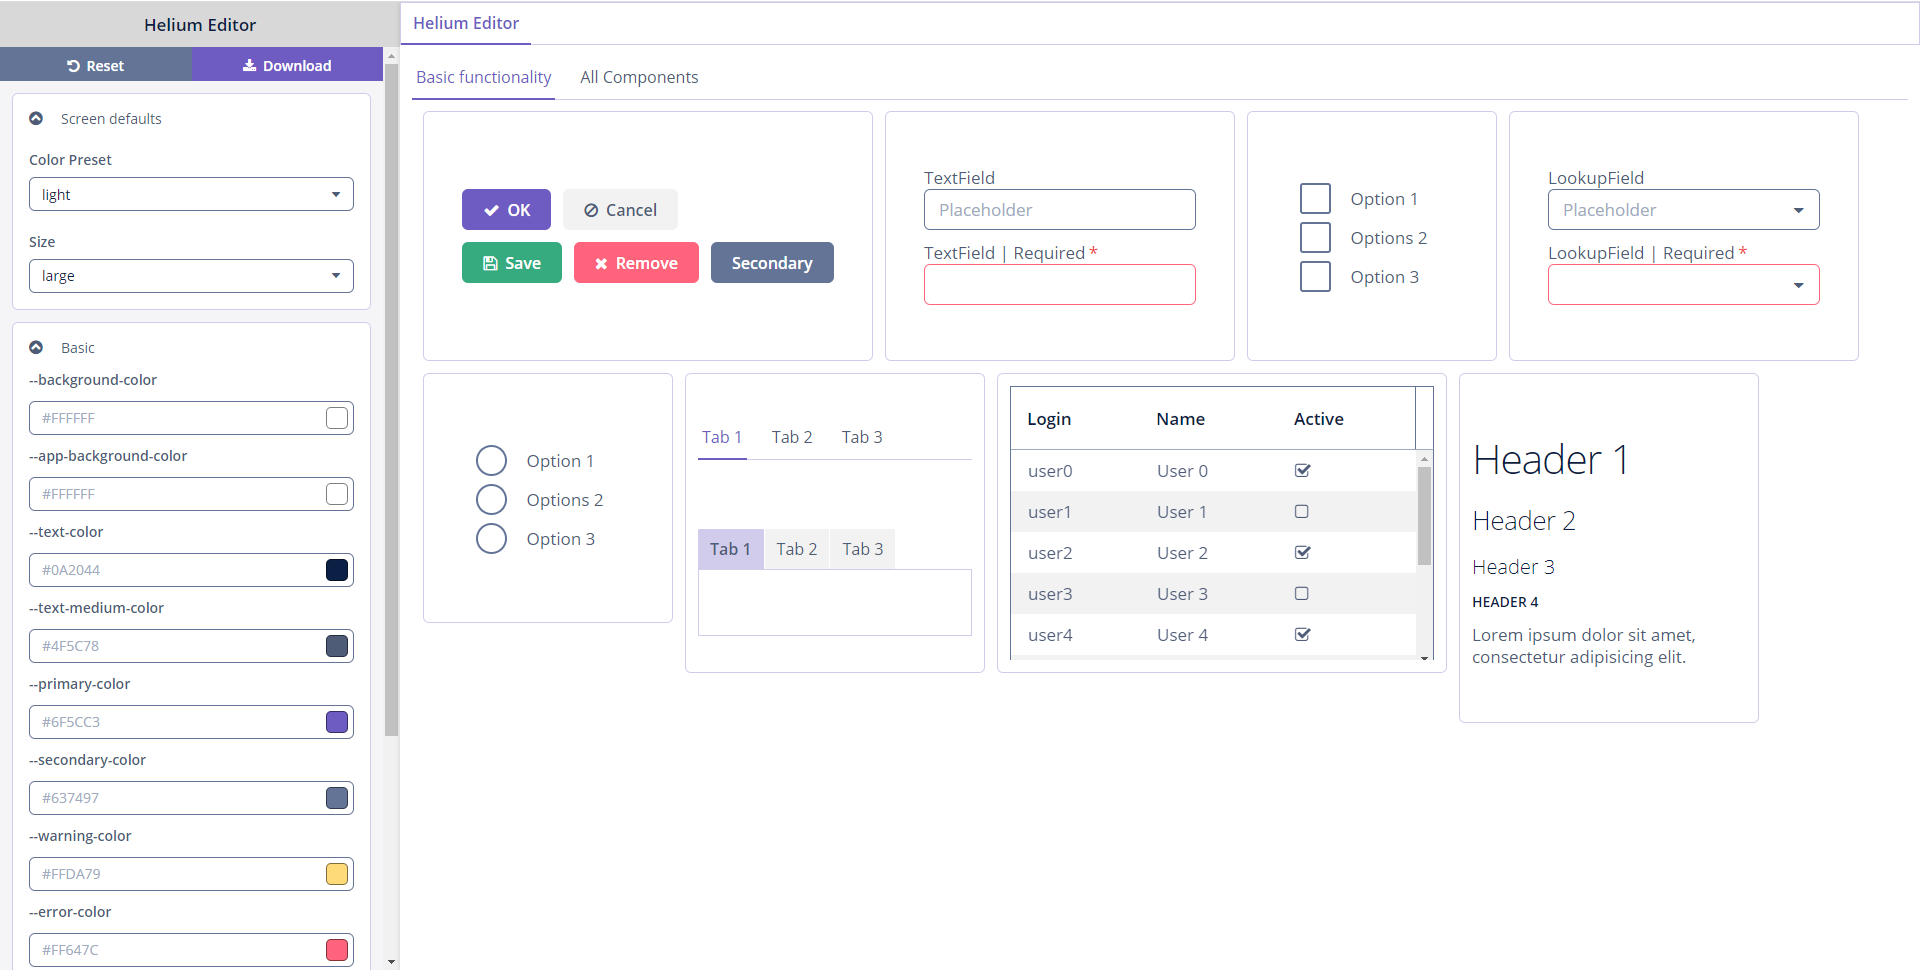
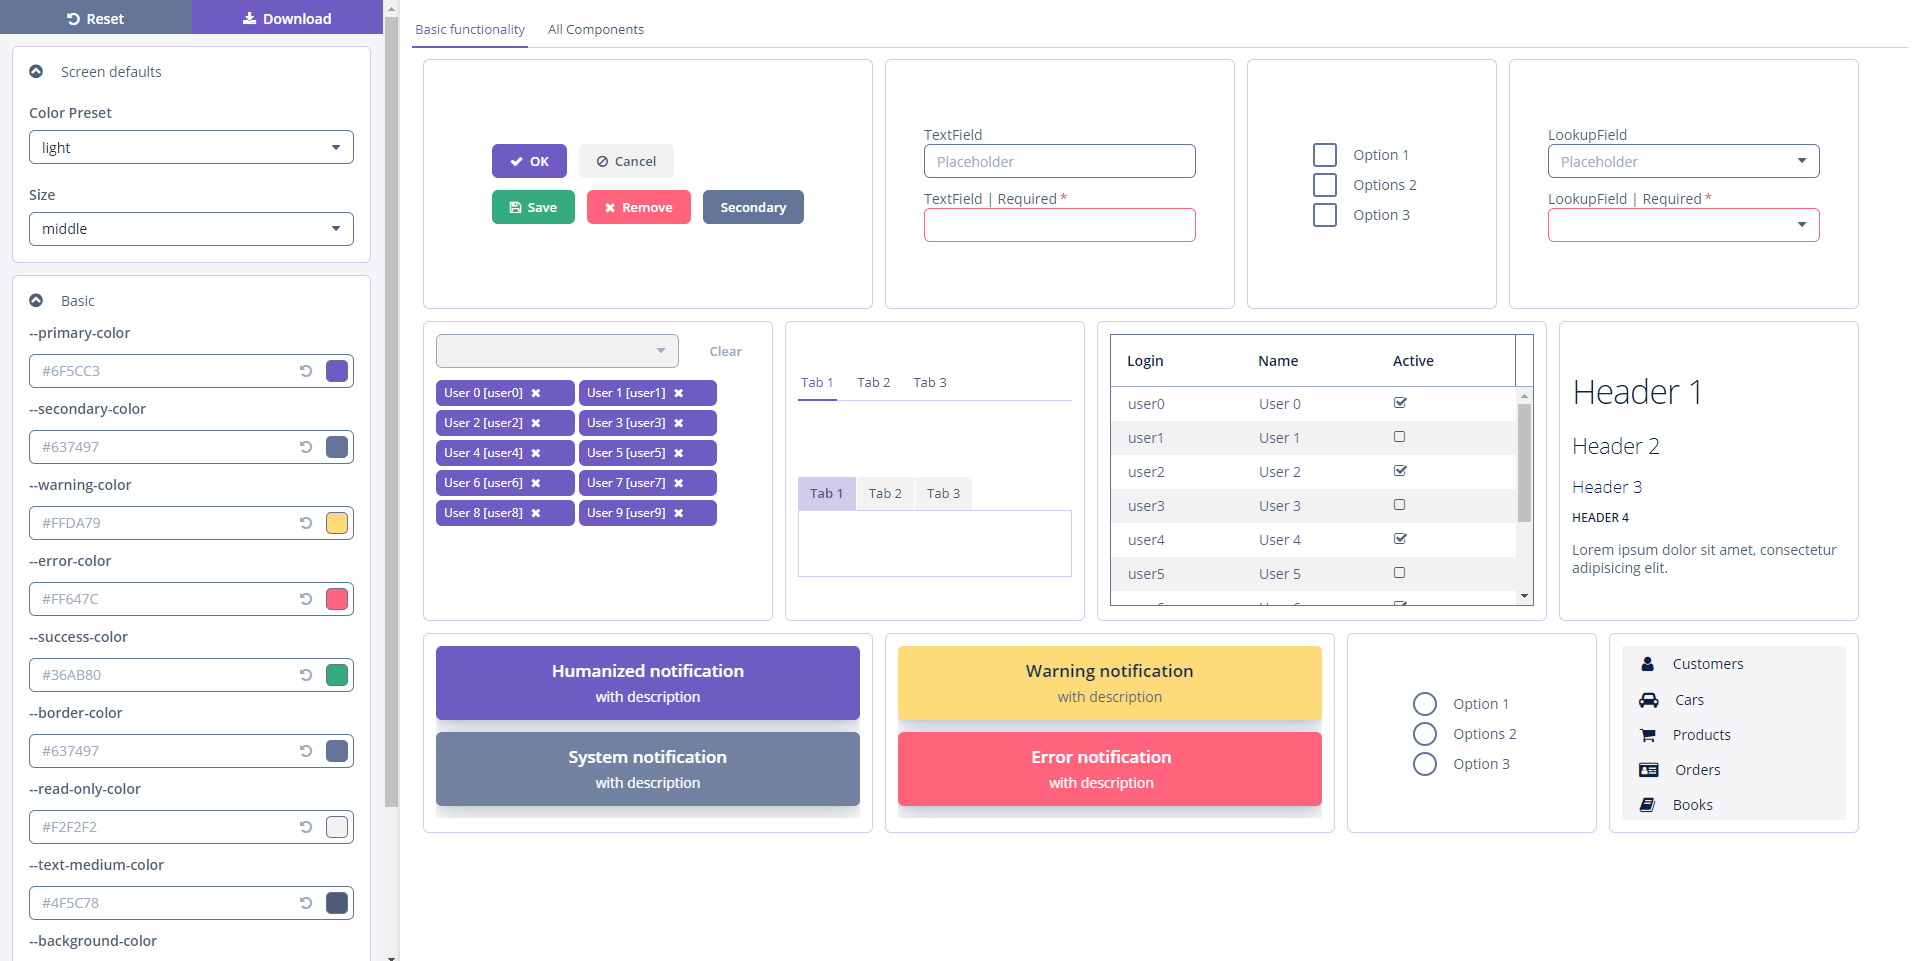
Add reset button for ThemeVariableField

diff --git a/modules/web/themes/helium/com.haulmont.editor.helium/helium-ext.scss b/modules/web/themes/helium/com.haulmont.editor.helium/helium-ext.scss
@@ -68,13 +68,19 @@ $helium-sidemenu-width: 400px;
         }
 
         & .v-textfield {
-          padding-right: $v-unit-size;
+          padding-right: 2 * $v-unit-size;
         }
 
         & .c-color-picker > .v-colorpicker {
           background: none;
           border: none;
           width: $v-unit-size;
+        }
+
+        & .reset-btn {
+          margin-left: (-1) * $v-layout-margin-left;
+          padding-left: $v-layout-margin-left;
+          padding-right: $v-unit-size - $v-layout-margin-left;
         }
       }
     }

diff --git a/modules/web/src/com/haulmont/editor/helium/web/components/themevariablefield/ThemeVariableField.java b/modules/web/src/com/haulmont/editor/helium/web/components/themevariablefield/ThemeVariableField.java
@@ -1,6 +1,7 @@
 package com.haulmont.editor.helium.web.components.themevariablefield;
 
 import com.haulmont.bali.events.Subscription;
+import com.haulmont.cuba.gui.components.Button;
 import com.haulmont.cuba.gui.components.ColorPicker;
 import com.haulmont.cuba.gui.components.Field;
 import com.haulmont.cuba.gui.components.Form;
@@ -38,6 +39,7 @@ public class ThemeVariableField extends CompositeComponent<Form>
     protected TextField<String> valueField;
     protected ColorPicker colorValueField;
     protected JavaScriptComponent jsComponent;
+    protected Button resetBtn;
 
     protected JavaScript javaScript;
 
@@ -53,10 +55,12 @@ public class ThemeVariableField extends CompositeComponent<Form>
         valueField = getInnerComponent("valueField");
         colorValueField = getInnerComponent("colorValueField");
         jsComponent = getInnerComponent("jsComponent");
+        resetBtn = getInnerComponent("resetBtn");
 
         initColorValueField();
         initValueField();
         initJavaScript();
+        initResetBtn();
     }
 
     protected void initColorValueField() {
@@ -78,7 +82,9 @@ public class ThemeVariableField extends CompositeComponent<Form>
                 colorValueField.setValue(value);
             }
 
-            if (valueChangeEvent.getValue() == null) {
+            boolean valueIsNull = valueChangeEvent.getValue() == null;
+            resetBtn.setEnabled(!valueIsNull);
+            if (valueIsNull) {
                 removeThemeVariable();
             } else {
                 setThemeVariable(value);
@@ -89,6 +95,18 @@ public class ThemeVariableField extends CompositeComponent<Form>
     protected void initJavaScript() {
         javaScript = JavaScript.getCurrent();
         javaScript.execute(jsComponent.getInitFunctionName() + "()");
+    }
+
+    protected void initResetBtn() {
+        resetBtn.addClickListener(clickEvent -> {
+            ThemeVariableDetails details = themeVariable.getThemeVariableDetails(currentColorPreset);
+            if (details == null) {
+                details = themeVariable.getThemeVariableDetails();
+            }
+
+            reset(details);
+            fireValueChangeEvent(null);
+        });
     }
 
     protected void setThemeVariable(String value) {
@@ -139,20 +157,23 @@ public class ThemeVariableField extends CompositeComponent<Form>
 
         if (!Objects.equals(details.getValue(), ThemeVariableUtils.getColorString(colorValueField.getValue()))) {
             currentColorPreset = colorPreset;
-
-            if (getInputPrompt() != null &&
-                    !getInputPrompt().equals(details.getPlaceHolder())) {
-                removeThemeVariable();
-            }
-
-            String name = themeVariable.getName();
-            setCaption(name);
-            setDescription(name);
-            setInputPrompt(details.getPlaceHolder());
-
-            valueField.setValue(null);
-            colorValueField.setValue(ThemeVariableUtils.getColorString(details.getValue()));
+            reset(details);
         }
+    }
+
+    protected void reset(ThemeVariableDetails details) {
+        if (getInputPrompt() != null &&
+                !getInputPrompt().equals(details.getPlaceHolder())) {
+            removeThemeVariable();
+        }
+
+        String name = themeVariable.getName();
+        setCaption(name);
+        setDescription(name);
+        setInputPrompt(details.getPlaceHolder());
+
+        valueField.setValue(null);
+        colorValueField.setValue(ThemeVariableUtils.getColorString(details.getValue()));
     }
 
     public void setColorValueByParent(String parentValue) {
@@ -199,10 +220,13 @@ public class ThemeVariableField extends CompositeComponent<Form>
 
     protected void onChange(ValueChangeEvent<String> event) {
         if (event.isUserOriginated()) {
-            ValueChangeEvent<String> valueChangeEvent = new ValueChangeEvent<>(event.getComponent(),
-                    event.getPrevValue(), ThemeVariableUtils.getColorString(event.getValue()), true);
-            publish(ValueChangeEvent.class, valueChangeEvent);
+            fireValueChangeEvent(ThemeVariableUtils.getColorString(event.getValue()));
         }
+    }
+
+    protected void fireValueChangeEvent(String value) {
+        ValueChangeEvent<String> valueChangeEvent = new ValueChangeEvent<>(valueField, value, value);
+        publish(ValueChangeEvent.class, valueChangeEvent);
     }
 
     @Override

diff --git a/modules/web/src/com/haulmont/editor/helium/web/screens/mainscreen/RespMainScreen.java b/modules/web/src/com/haulmont/editor/helium/web/screens/mainscreen/RespMainScreen.java
@@ -11,8 +11,10 @@ import com.haulmont.cuba.gui.screen.MapScreenOptions;
 import com.haulmont.cuba.gui.screen.Subscribe;
 import com.haulmont.cuba.gui.screen.UiController;
 import com.haulmont.cuba.gui.screen.UiDescriptor;
+import com.haulmont.cuba.web.AppUI;
 import com.haulmont.cuba.web.app.UserSettingsTools;
 import com.haulmont.cuba.web.app.main.MainScreen;
+import com.haulmont.cuba.web.events.UIRefreshEvent;
 import com.haulmont.cuba.web.theme.HaloTheme;
 import com.haulmont.editor.helium.web.components.themevariablefield.ThemeVariableField;
 import com.haulmont.editor.helium.web.screens.download.DownloadScreen;
@@ -21,6 +23,7 @@ import com.haulmont.editor.helium.web.tools.ThemeVariable;
 import com.haulmont.editor.helium.web.tools.ThemeVariableDetails;
 import com.haulmont.editor.helium.web.tools.ThemeVariableUtils;
 import com.haulmont.editor.helium.web.tools.ThemeVariablesManager;
+import org.springframework.context.event.EventListener;
 
 import javax.inject.Inject;
 import java.util.ArrayList;
@@ -147,6 +150,12 @@ public class RespMainScreen extends MainScreen {
         return themeVariableField;
     }
 
+    @EventListener
+    public void onUIRefresh(UIRefreshEvent event) {
+        colorPresetField.setValue(colorPreset);
+        modifiedThemeVariables.clear();
+    }
+
     @Subscribe("colorPresetField")
     public void onColorPresetFieldValueChange(HasValue.ValueChangeEvent<ColorPreset> event) {
         if (ColorPreset.CUSTOM.equals(event.getPrevValue())
@@ -227,6 +236,7 @@ public class RespMainScreen extends MainScreen {
 
     protected void resetValues() {
         colorPresetField.setValue(ColorPreset.LIGHT);
+        modifiedThemeVariables.clear();
         sizeField.setValue(variantsManager.loadUserAppThemeSizeSetting());
         updateMainScreenStyleName();
     }
